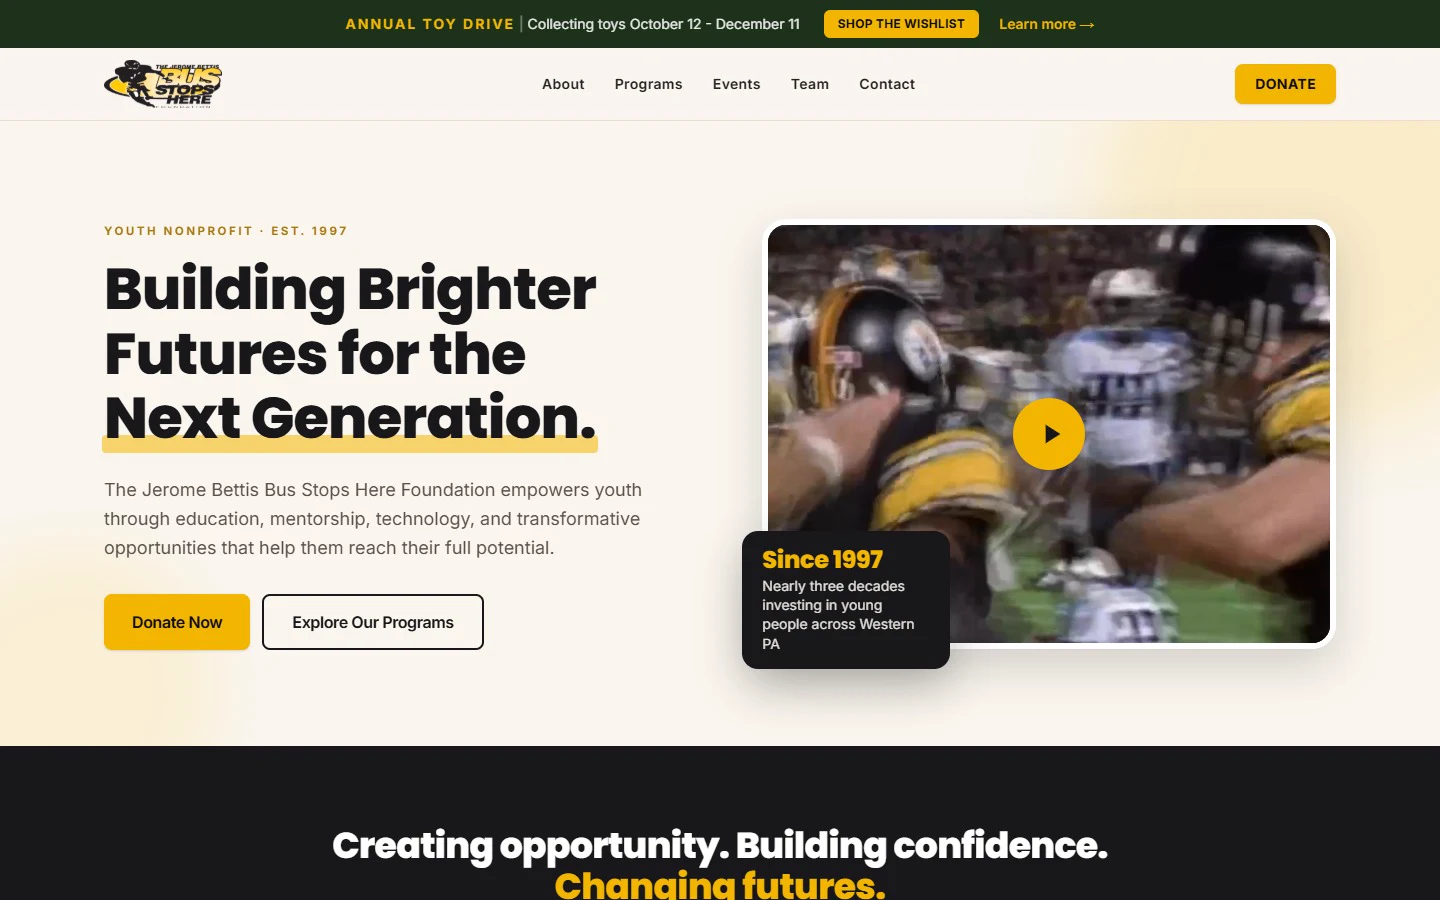
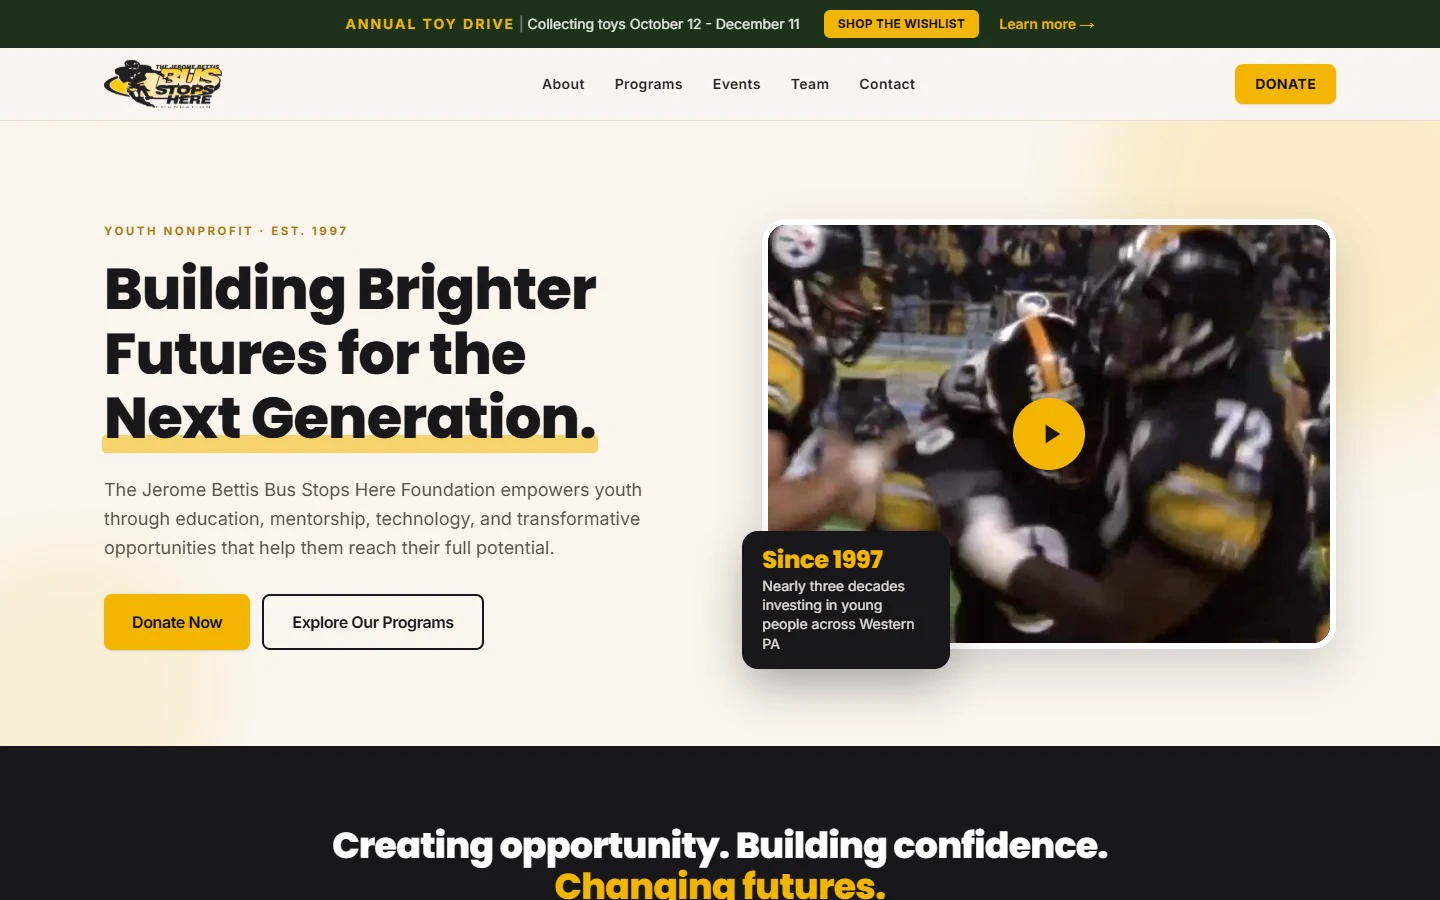
Home showcase: hero-only loops, no scrolling
The recorded scroll juddered and Mark rejected it. Valiant 3, Quality Choice,
and Bus Stops Here now play 7 seconds of just their hero video (v2), leading
the rotation and alternating with stills; Sheffler, Polverini & Wiater, and
Valor heroes don't move, so they are stills again. The recorder captures the
hero only, and the next recording preloads instead of the next slide.

Changed region(s): [[0.5312, 0.2489, 0.9375, 0.7156]]

diff --git a/scripts/showcase/record.py b/scripts/showcase/record.py
@@ -1,5 +1,7 @@
-"""Recordings for the home page showcase: each client site's live home page, held on the hero while its
-own video plays, then eased down the page. Writes the still (src/assets/showcase/<slug>.webp, the
+"""Recordings for the home page showcase: a few seconds of each client site's live home page hero while
+its own background video plays. No scrolling: a captured scroll judders (the screencast delivers frames
+unevenly), and Mark rejected it on November 9, 2026. Only sites whose hero moves are here; the rest stay
+stills in index.astro. Writes the still (src/assets/showcase/<slug>.webp, the
 recording's first frame) and uploads the silent MP4 to R2 as motive11-media/showcase/<slug>-v<N>.mp4,
 served at media.motive11.com. src/pages/index.astro points at those URLs.
 
@@ -30,31 +32,16 @@ from playwright.sync_api import sync_playwright
 REPO = Path(__file__).resolve().parents[2]
 AIOS = Path("C:/Users/marks/AIOS")
 
-# hold: seconds on the hero before scrolling. Sites whose hero is a still photo get a short hold,
-# or the first few seconds show nothing moving.
 SITES = {
-    "sheffler": {"url": "https://shefflerco.com", "hold": 4.5, "scroll": 7.0, "px": 2400},
-    "pw": {"url": "https://pw-legal.com", "hold": 2.0, "scroll": 9.5, "px": 3400},
-    "valor": {"url": "https://valorpgh.com", "hold": 2.0, "scroll": 9.5, "px": 3400},
-    "v3": {"url": "https://valiant3communications.com", "hold": 4.5, "scroll": 7.0, "px": 2400},
-    "qcl": {"url": "https://qualitychoicelandscaping.com", "hold": 4.5, "scroll": 7.0, "px": 2400},
-    "bshf": {"url": "https://thebusstopsherefoundation.org", "hold": 4.5, "scroll": 7.0, "px": 2400},
+    "v3": "https://valiant3communications.com",
+    "qcl": "https://qualitychoicelandscaping.com",
+    "bshf": "https://thebusstopsherefoundation.org",
 }
+SECONDS = 6
 
 W, H, DSF = 1440, 900, 2
 
-EASE_SCROLL = """([px, ms]) => new Promise(done => {
-    const y0 = window.scrollY, t0 = performance.now();
-    const ease = t => t < 0.5 ? 4*t*t*t : 1 - Math.pow(-2*t + 2, 3) / 2;
-    (function step(now) {
-        const t = Math.min(1, (now - t0) / ms);
-        window.scrollTo(0, y0 + px * ease(t));
-        t < 1 ? requestAnimationFrame(step) : done();
-    })(t0);
-})"""
-
-
-def capture(site: dict, frames: Path) -> list[float]:
+def capture(url: str, frames: Path) -> list[float]:
     stamps: list[float] = []
     with sync_playwright() as p:
         # Chrome, not Playwright's Chromium: Chromium ships without H.264, so the sites' mp4 heroes never play.
@@ -62,16 +49,11 @@ def capture(site: dict, frames: Path) -> list[float]:
                                     args=["--autoplay-policy=no-user-gesture-required", "--hide-scrollbars"])
         ctx = browser.new_context(viewport={"width": W, "height": H}, device_scale_factor=DSF)
         page = ctx.new_page()
-        page.goto(site["url"], wait_until="load", timeout=60000)
+        page.goto(url, wait_until="load", timeout=60000)
         try:
             page.wait_for_load_state("networkidle", timeout=15000)
         except Exception:
             pass
-        # Walk the page once first so lazy images and scroll reveals have already fired; the recorded pass
-        # would otherwise show blanks popping in.
-        page.evaluate("""async (px) => { for (let y = 0; y <= px + 900; y += 300) {
-            window.scrollTo(0, y); await new Promise(r => setTimeout(r, 120)); } }""", site["px"])
-        page.evaluate("window.scrollTo(0, 0)")
         page.wait_for_timeout(2500)
 
         # CDP screencast instead of Playwright's record_video, whose fixed low-bitrate VP8 blurs small text.
@@ -85,9 +67,7 @@ def capture(site: dict, frames: Path) -> list[float]:
         cdp.on("Page.screencastFrame", on_frame)
         cdp.send("Page.startScreencast", {"format": "jpeg", "quality": 92, "maxWidth": W * DSF,
                                           "maxHeight": H * DSF, "everyNthFrame": 1})
-        page.wait_for_timeout(int(site["hold"] * 1000))
-        page.evaluate(EASE_SCROLL, [site["px"], int(site["scroll"] * 1000)])
-        page.wait_for_timeout(1200)
+        page.wait_for_timeout(SECONDS * 1000)
         cdp.send("Page.stopScreencast")
         page.wait_for_timeout(300)
         browser.close()

diff --git a/README.md b/README.md
@@ -38,20 +38,25 @@ Dark mode is the default; the header toggle stores `light` or `dark` in `localSt
 
 ## Home page showcase
 
-The browser frame in the home hero cycles through client work (since November 9, 2026). The Sheffler portal
-is a still, since it sits behind a login. Every other slide is a real recording of that client's live home
-page: it holds on the hero while the site's own video plays, then eases down the page, with no sound. Each slide
-shows its still (the recording's first frame, `src/assets/showcase/<slug>.webp`) until the video starts, and a
-slide moves on when its recording ends. Only the slide on screen and the next one download, about 1.3 to 3 MB
-each. Nothing plays while the hero is off screen or the tab is hidden. Visitors with reduced motion or
-Data Saver turned on get the stills.
+The browser frame in the home hero cycles through client work (since November 9, 2026). Sites whose hero
+has its own background video (Valiant 3, Quality Choice Landscaping, Bus Stops Here) play a 7-second
+silent recording of just that hero, with no scrolling, and alternate with stills (the Sheffler portal, which
+is behind a login, and the Sheffler, Polverini & Wiater, and Valor sites, whose heroes don't move). A recording's
+still is its first frame (`src/assets/showcase/<slug>.webp`), so the video takes over without a jump, and a
+slide moves on when its recording ends; a still holds 4.5 seconds. Only the recording on screen and the next
+one download (1.1 to 1.7 MB each). Nothing plays while the hero is off screen or the tab is hidden, and
+visitors with reduced motion or Data Saver get the stills.
+
+**Never record a scroll.** The first version (November 9, 2026) also scrolled each home page and Mark
+rejected it: the capture delivers frames unevenly, so a recorded scroll judders and stalls no matter how it
+is encoded. If a scroll ever comes back, animate a tall full-page screenshot in the page instead.
 
 The MP4s live in R2 (bucket `motive11-media`, served at `media.motive11.com`, allowed in `public/_headers`)
 and are cached as immutable. **Re-recording a site therefore always takes a new version number:**
-`C:/Users/marks/AIOS/.venv/Scripts/python.exe scripts/showcase/record.py v3 --version 2` records it, rewrites
-its still, and uploads `showcase/v3-v2.mp4`; then change that slide's `-v1` to `-v2` in `src/pages/index.astro`
-and commit the still with it. `--no-upload` keeps the MP4 local to look at first. Re-record a site when its
-home page changes visibly.
+`C:/Users/marks/AIOS/.venv/Scripts/python.exe scripts/showcase/record.py v3 --version 3` records it, rewrites
+its still, and uploads `showcase/v3-v3.mp4` (it refuses a version that is already published); then change
+that slide's `-vN` in `src/pages/index.astro` and commit the still with it. `--no-upload` keeps the MP4 and
+still in a temp folder to look at first. Re-record a site when its hero changes.
 
 ## Share images
 
